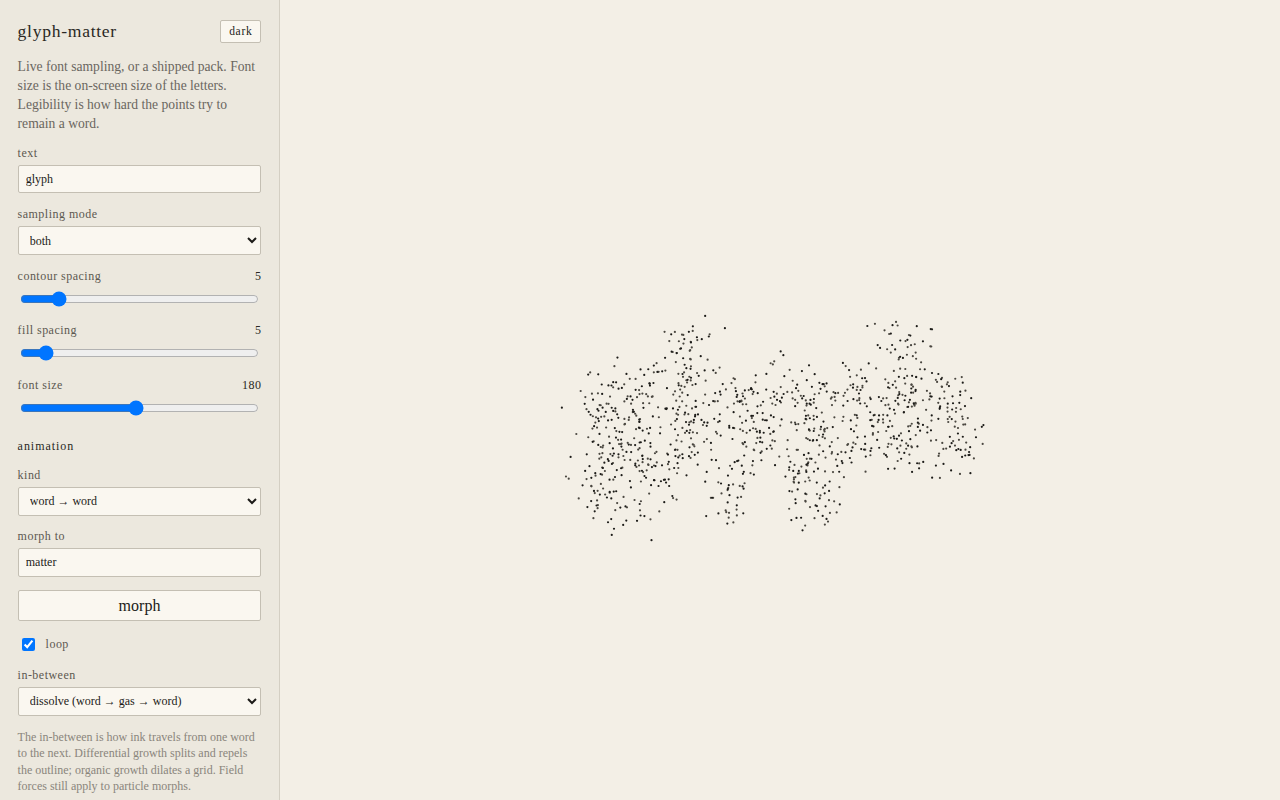
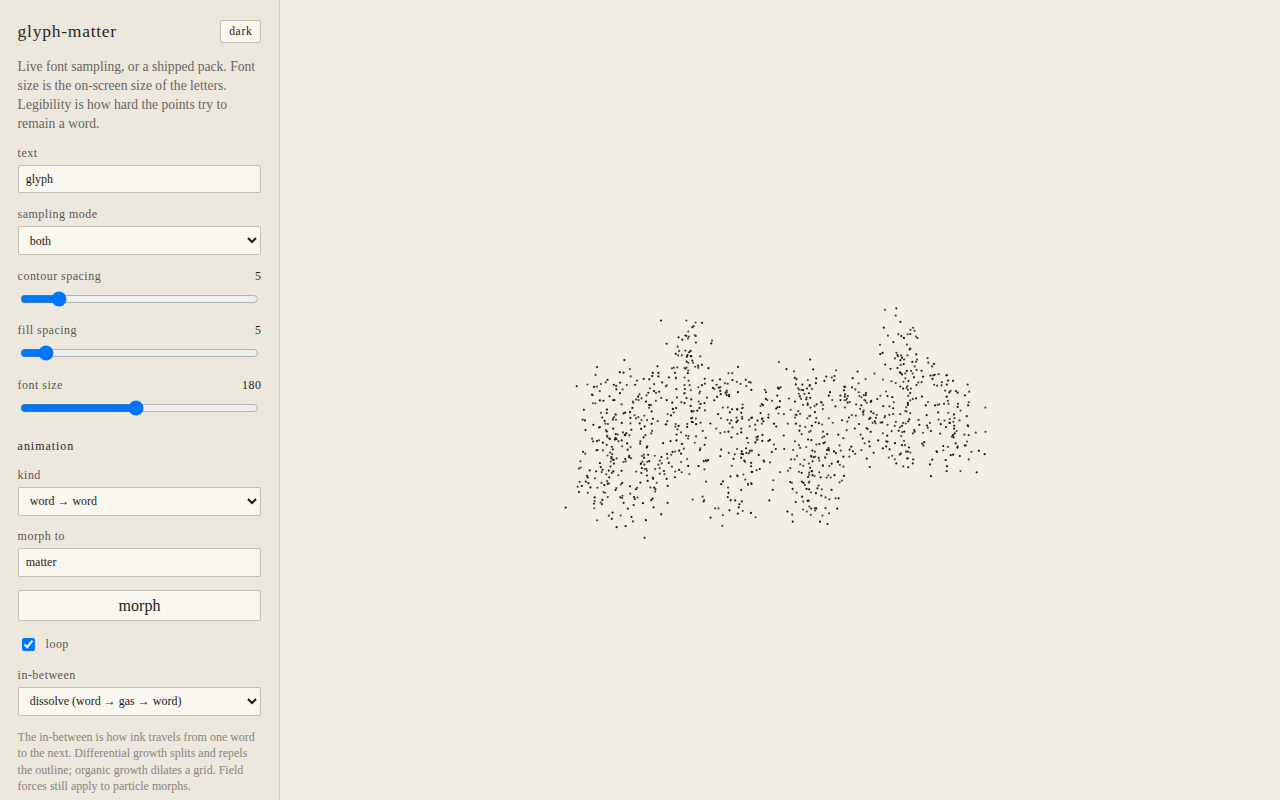
fix(examples): in-between

Changed region(s): [[0.4375, 0.4062, 0.7812, 0.6562]]

diff --git a/examples/in-between.ts b/examples/in-between.ts
@@ -57,6 +57,7 @@ const viewBounds = unionBounds(
   packs[1].bounds,
   packs[0].sampling.fontSize * 0.4,
 );
+/** Next pack to morph into. Flip only after a word has formed. */
 let toward = 1;
 let phase: "dissolve" | "travel" | "form" | "hold" = "hold";
 let elapsed = 0;
@@ -74,7 +75,6 @@ loop((dt) => {
   elapsed += dt;
 
   if (phase === "hold" && elapsed >= HOLD_T) {
-    toward = 1 - toward;
     beginDissolve();
   } else if (phase === "dissolve") {
     world.configure({ legibility: dissolveLegibility(elapsed) });
@@ -98,6 +98,7 @@ loop((dt) => {
     if (u >= 1) {
       phase = "hold";
       elapsed = 0;
+      toward = 1 - toward;
       world.configure({ legibility: REST });
     }
   }
